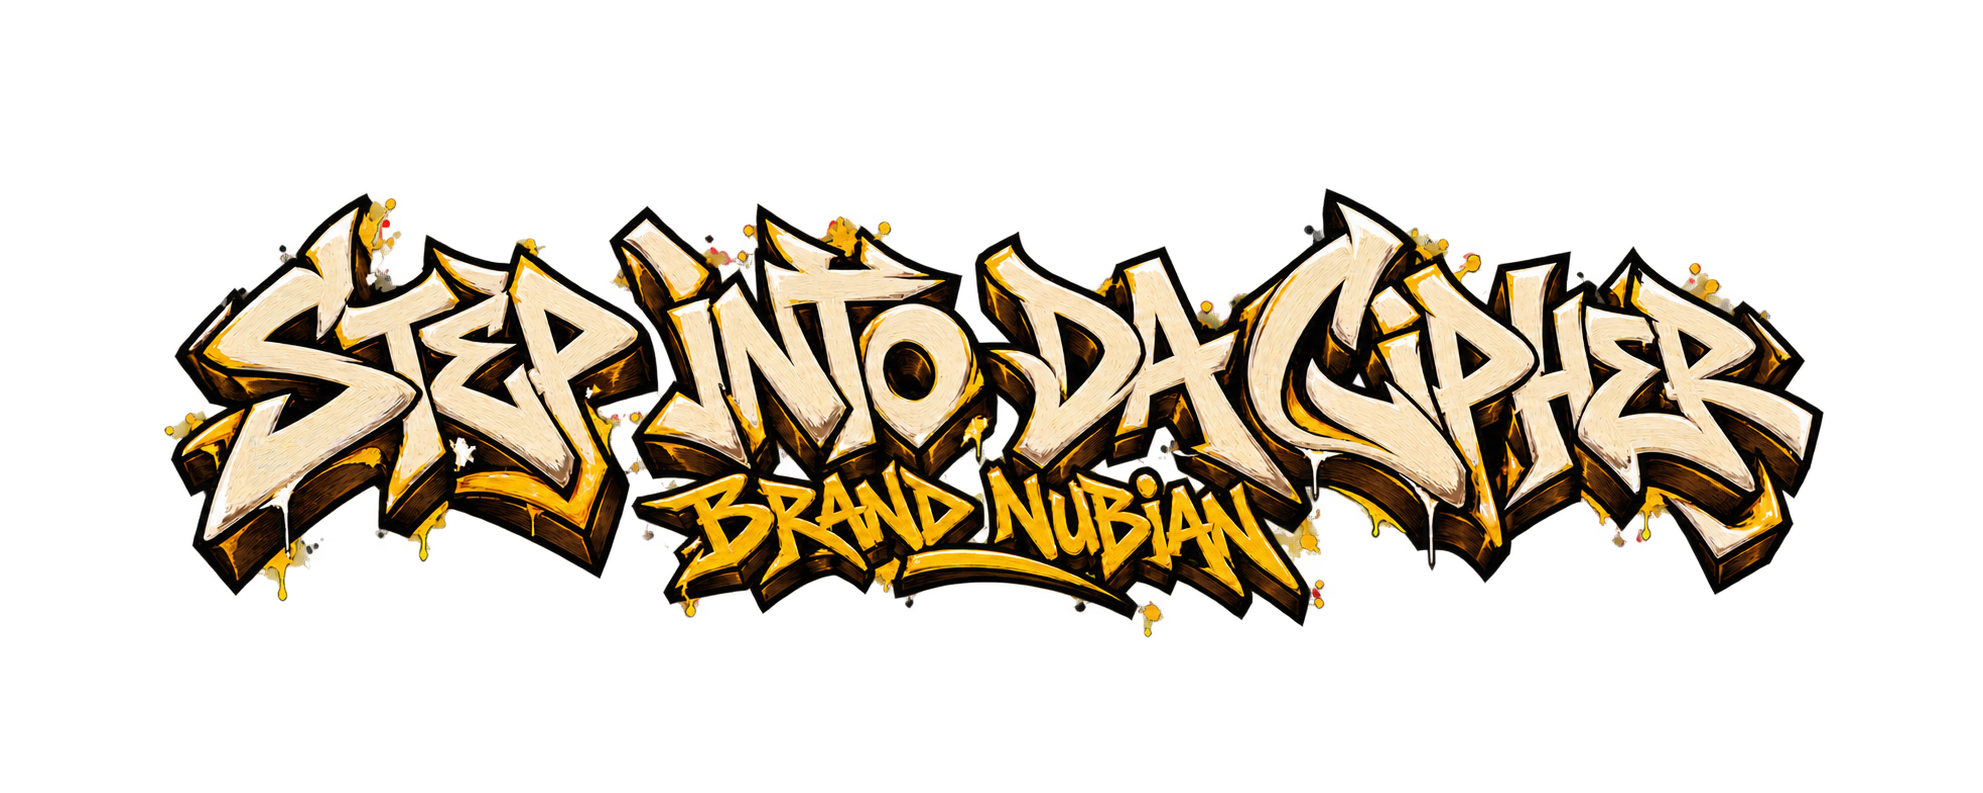
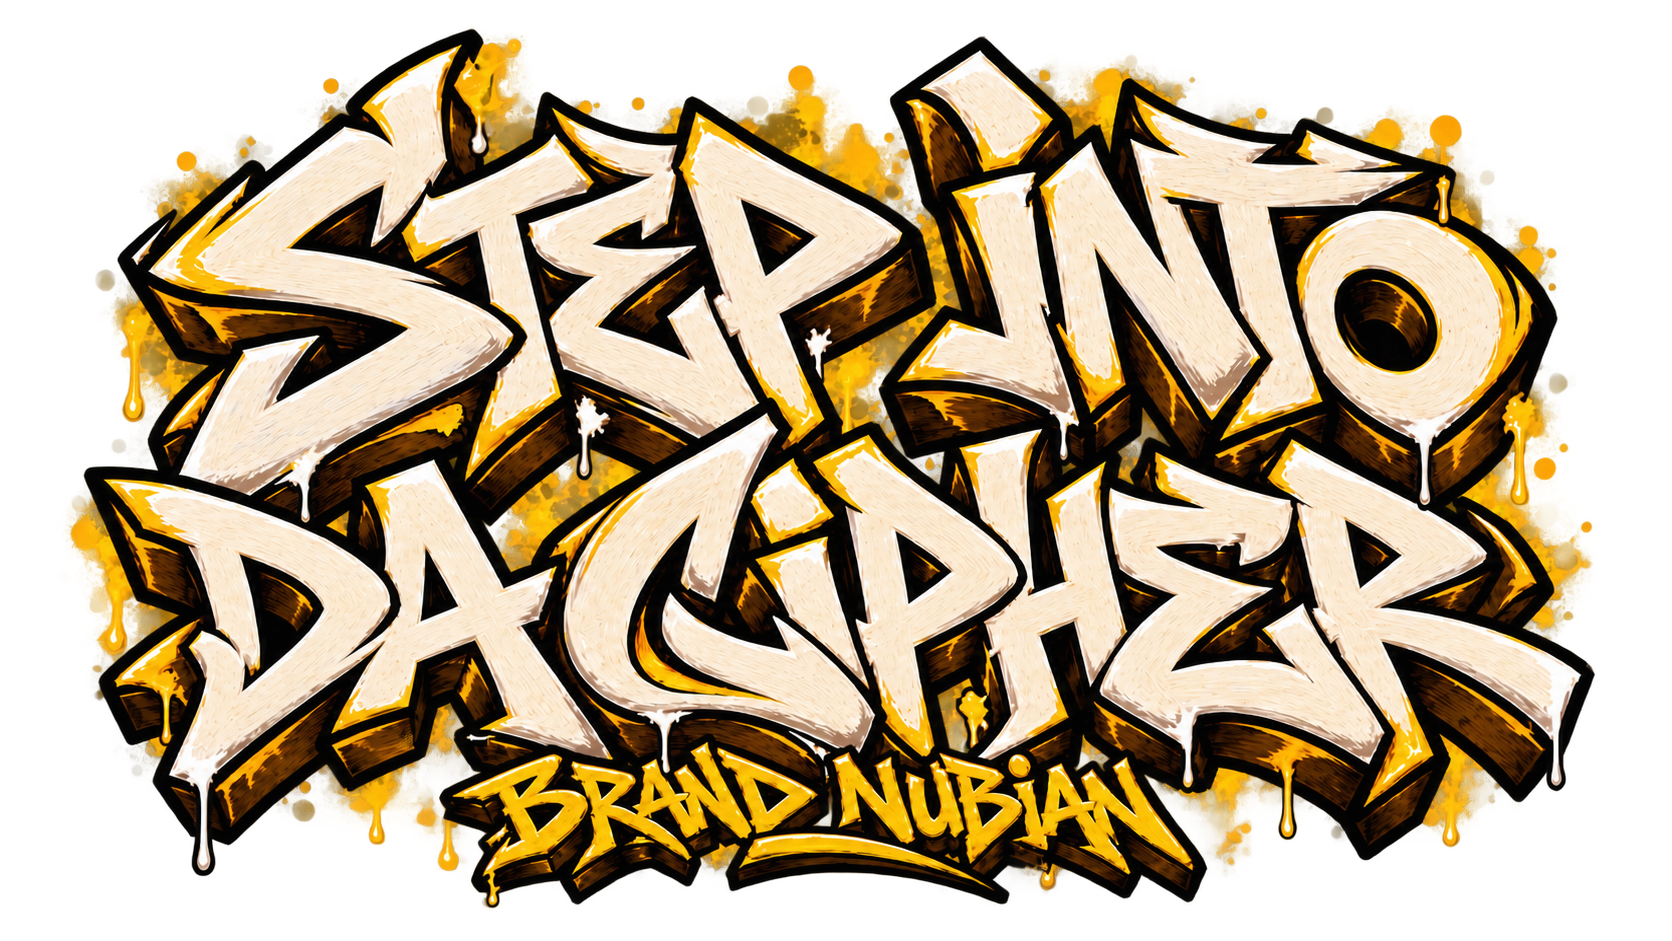
Enlarge nine requested graffiti title compositions

diff --git a/scripts/verify_remaining_size.py b/scripts/verify_remaining_size.py
@@ -1,0 +1,23 @@
+from pathlib import Path
+import json,hashlib,sys
+from PIL import Image
+from approved_remaining_size import F,historical_remaining_size_file
+R=Path(__file__).resolve().parents[1];sha=lambda b:hashlib.sha256(b).hexdigest()
+for p,h in F['protected'].items():assert sha((R/p).read_bytes())==h,p
+assert len(json.loads((R/'tracks.json').read_text()))==521
+for a in F['assets']:
+ p=R/a['path'];assert sha(p.read_bytes())==a['afterSHA256'] and a['afterSHA256']!=a['beforeSHA256']
+ with Image.open(p) as im:
+  im.load();assert im.mode=='RGBA' and list(im.size)==a['dimensions'] and max(im.size)<=2400
+  assert sha(im.tobytes())==a['rgbaSHA256'];assert im.getchannel('A').getextrema()[0]==0
+  assert any(min(r,g,b)>225 and alpha>240 for r,g,b,alpha in im.getdata()),'White paint lost'
+ if '--source-only' not in sys.argv:
+  D=R/'dist';html=(D/'tracks'/(a['id']+'.html')).read_text();assert a['path'] in html and 'Original graffiti' in html and 'DJ Naoyaman' in html
+  with Image.open(D/a['path']) as im:assert im.mode=='RGBA' and im.size==tuple(a['dimensions'])
+  with Image.open(D/'og'/(a['id']+'.jpg')) as im:assert im.size==(1200,630)
+raw=(R/'releases.json').read_bytes();historical_remaining_size_file('releases.json',raw)
+try:historical_remaining_size_file('releases.json',raw+b' ')
+except AssertionError:pass
+else:raise AssertionError('Unapproved release mutation accepted')
+assert historical_remaining_size_file('unrelated',b'unchanged')==b'unchanged'
+print('Source image hashes, exact RGBA, transparency, white paint and 521-record/runtime preservation PASS.' if '--source-only' in sys.argv else 'Source plus generated artwork, external credit and 1200x630 OGP PASS. Lettering/style reviewed separately.')

diff --git a/scripts/approved_remaining_size.py b/scripts/approved_remaining_size.py
@@ -1,0 +1,10 @@
+"""Only the release version is normalized; replacement assets checked separately."""
+from pathlib import Path
+import json,hashlib
+R=Path(__file__).resolve().parents[1]
+F=json.loads((R/'scripts/fixtures/approved-remaining-size.json').read_text())
+def historical_remaining_size_file(path,data):
+ if path!='releases.json':return data
+ assert hashlib.sha256(data).hexdigest()==F['afterReleaseSHA256'],'Unapproved art release drift'
+ obj=json.loads(data);obj['version']=F['beforeVersion'];before=(json.dumps(obj,ensure_ascii=False,indent=2)+'\n').encode()
+ assert hashlib.sha256(before).hexdigest()==F['beforeReleaseSHA256'];return before

diff --git a/scripts/approved_nine_branding.py b/scripts/approved_nine_branding.py
@@ -4,6 +4,8 @@ import json,hashlib
 R=Path(__file__).resolve().parents[1]
 F=json.loads((R/'scripts/fixtures/approved-nine-branding.json').read_text())
 def historical_nine_branding_file(path,data):
+ from approved_remaining_size import historical_remaining_size_file
+ data=historical_remaining_size_file(path,data)
  if path!='releases.json':return data
  assert hashlib.sha256(data).hexdigest()==F['afterReleaseSHA256'],'Unapproved art release drift'
  obj=json.loads(data);obj['version']=F['beforeVersion'];before=(json.dumps(obj,ensure_ascii=False,indent=2)+'\n').encode()
